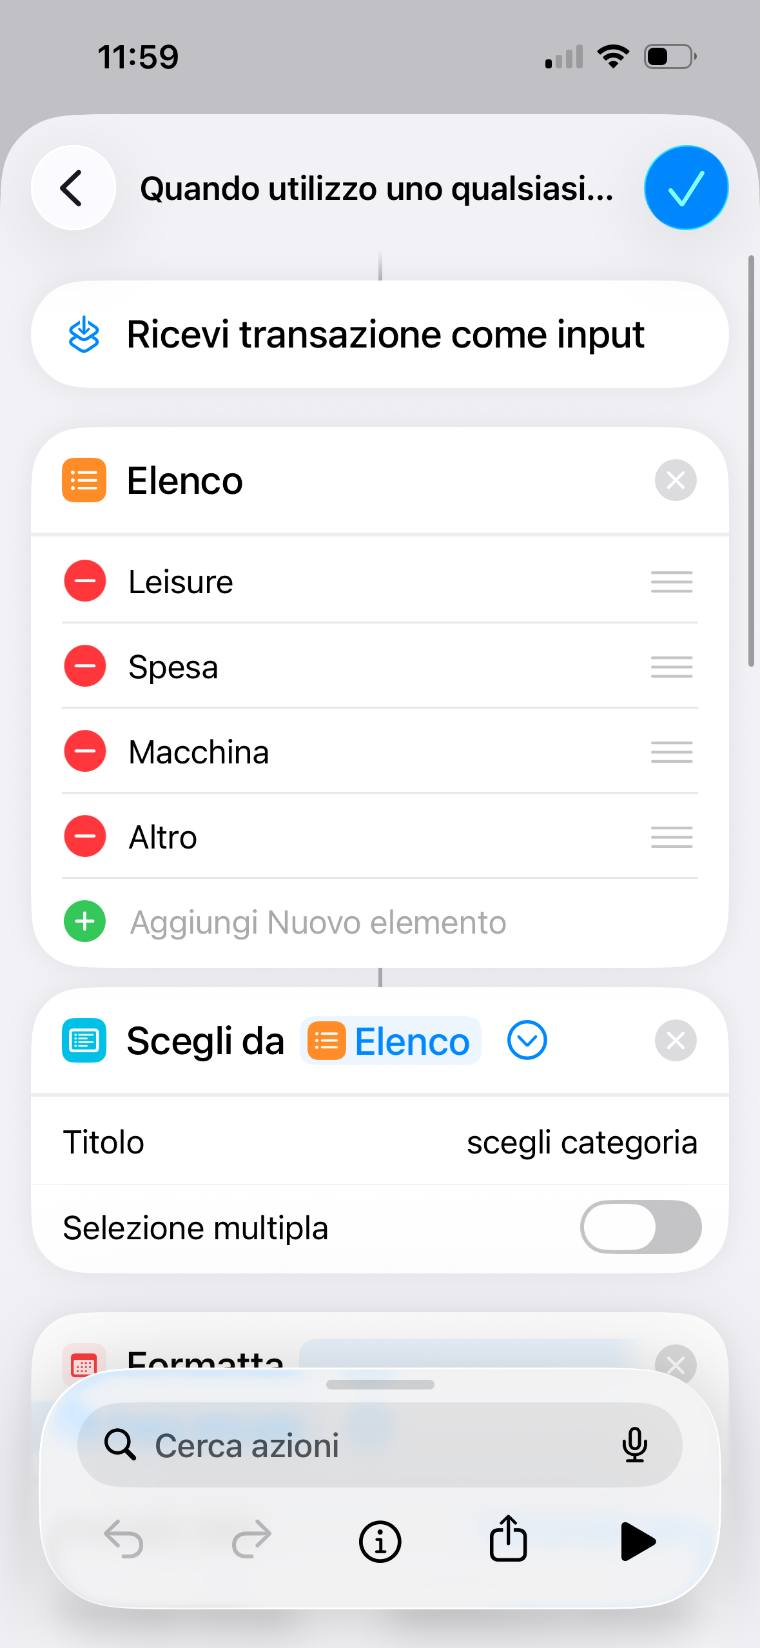
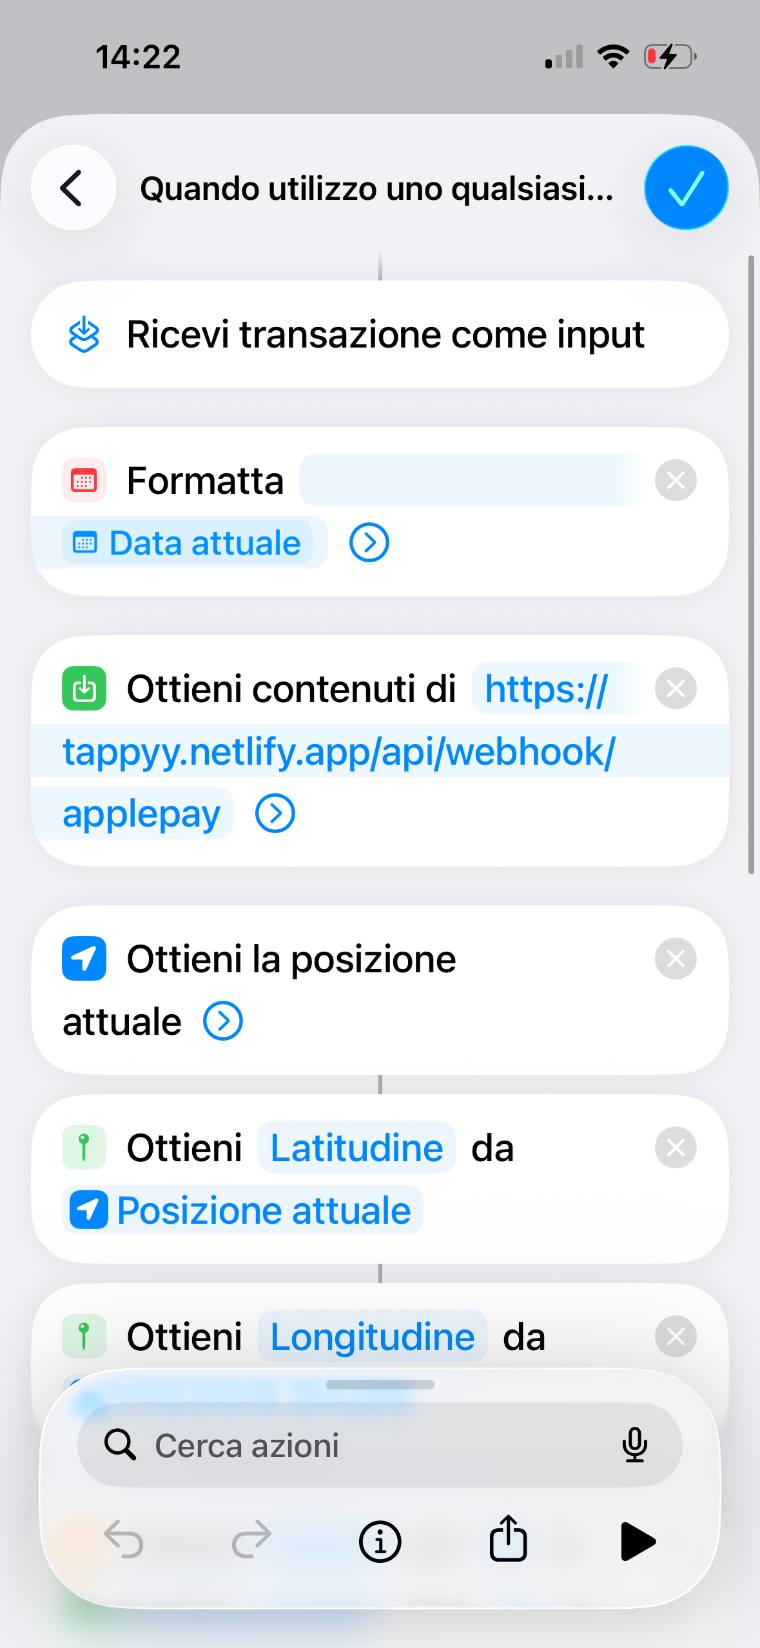
Guida: le immagini dell'automazione a tre chiamate
Rifatti innesco, posizione e categoria dagli scatti dell'automazione
com'è adesso, e aggiunto l'avviso sull'errore facile: la seconda e la
terza chiamata vanno all'indirizzo che finisce in /completa, non a quello
della prima.

3-invio.jpg mostra ancora lat e lon nel corpo della prima chiamata: la
didascalia lo dice, ma va risostituito (COORDINATION.md §12).

Claude-Session: https://claude.ai/code/session_01H3poq5UZy4bmtpKeGV99Xx

diff --git a/client/src/views/GuidaAutomazione.tsx b/client/src/views/GuidaAutomazione.tsx
@@ -144,7 +144,7 @@ export default function GuidaAutomazione({ onChiudi }: { onChiudi: () => void })
           numero={2}
           titolo="Crea l'automazione"
           immagine="./guida/1-innesco.jpg"
-          didascalia="L'innesco giusto, e sotto le due azioni della categoria"
+          didascalia="L'innesco giusto, e sotto la catena: prima l'invio, poi la posizione"
         >
           <ol className="list-decimal pl-4 flex flex-col gap-1.5">
             <li>
@@ -161,13 +161,17 @@ export default function GuidaAutomazione({ onChiudi }: { onChiudi: () => void })
             È l&apos;innesco giusto se la prima riga dice «Ricevi transazione come input»: vuol
             dire che importo ed esercente arriveranno da soli.
           </p>
+          <p>
+            L&apos;ordine che vedi nell&apos;immagine è tutto: <b>prima si manda la spesa</b>, poi
+            si aggiunge quello che si riesce a raccogliere. Ogni azione che può fermarsi sta dopo.
+          </p>
         </Passo>
 
         <Passo
           numero={3}
           titolo="Aggiungi l'invio a tappy"
           immagine="./guida/3-invio.jpg"
-          didascalia="L'azione dell'URL aperta con «Mostra altro»"
+          didascalia="L'azione aperta con «Mostra altro». Attenzione: nella foto ci sono anche lat e lon, che ora non vanno più qui"
         >
           <p>
             Aggiungi l&apos;azione <b>Ottieni contenuti dall&apos;URL</b>, poi tocca{" "}
@@ -212,7 +216,7 @@ export default function GuidaAutomazione({ onChiudi }: { onChiudi: () => void })
           numero={4}
           titolo="Poi la posizione"
           immagine="./guida/2-posizione.jpg"
-          didascalia="Precisione «Ottimale», poi latitudine e longitudine"
+          didascalia="Dopo la longitudine: l'id preso dalla risposta, e la seconda chiamata"
         >
           <p className="text-ink dark:text-ink-dark">
             Va <b>dopo</b> l&apos;invio, non prima. Se iOS nega la posizione — e a telefono
@@ -257,6 +261,11 @@ export default function GuidaAutomazione({ onChiudi }: { onChiudi: () => void })
           <p>
             Stesso metodo <code>POST</code>, stesse intestazioni, e tre campi nel corpo:
           </p>
+          <p className="text-ink dark:text-ink-dark">
+            L&apos;errore facile è lasciare l&apos;indirizzo della prima chiamata: questa e la
+            successiva finiscono in <code>/completa</code>. Con quello sbagliato ricevi{" "}
+            <code>400</code> e non arriva né posizione né categoria.
+          </p>
           <div className="rounded-2xl bg-surface dark:bg-surface-dark p-3 mt-1 overflow-x-auto">
             <table className="w-full text-left">
               <tbody>
@@ -272,7 +281,12 @@ export default function GuidaAutomazione({ onChiudi }: { onChiudi: () => void })
           </p>
         </Passo>
 
-        <Passo numero={5} titolo="La categoria, per ultima">
+        <Passo
+          numero={5}
+          titolo="La categoria, per ultima"
+          immagine="./guida/5-categoria.jpg"
+          didascalia="In coda a tutto: elenco, scelta, terza chiamata"
+        >
           <p className="text-ink dark:text-ink-dark">
             Chiedere la categoria è l&apos;unica azione che <b>aspetta una risposta</b>. A telefono
             bloccato l&apos;iPhone manda una notifica e mette l&apos;automazione in pausa: se non la
@@ -288,8 +302,8 @@ export default function GuidaAutomazione({ onChiudi }: { onChiudi: () => void })
               multipla spenta
             </li>
             <li>
-              un terzo <b>Ottieni contenuti dall&apos;URL</b>, di nuovo il secondo indirizzo, con
-              due soli campi
+              un terzo <b>Ottieni contenuti dall&apos;URL</b>, di nuovo il secondo indirizzo —
+              quello che finisce in <code>/completa</code> — con due soli campi
             </li>
           </ol>
           <div className="rounded-2xl bg-surface dark:bg-surface-dark p-3 mt-1 overflow-x-auto">

diff --git a/COORDINATION.md b/COORDINATION.md
@@ -480,24 +480,15 @@ gente:
 - **Il primo accesso costa 6 scritture** (utente, 4 categorie, carta), in
   sequenza. Va bene per un'iscrizione ogni tanto, non per un'ondata.
 
-## 12. Da fare quando l'automazione sarà definitiva
+## 12. Screenshot della guida — stato al 2026-09-03
 
-**Rifare gli screenshot della guida.** Quelli in `client/public/guida/` sono
-del 2026-09-03 e mostrano l'ordine **vecchio**: la posizione prima
-dell'invio, e `lat`/`lon` dentro il corpo della prima chiamata. Il testo
-della guida descrive già il nuovo ordine in due tempi, quindi finché non si
-rifanno le immagini contraddicono le istruzioni accanto a cui stanno.
+Rifatti con l'automazione a tre chiamate: `1-innesco.jpg` (la testa: input,
+invio, posizione), `2-posizione.jpg` (id dal dizionario e seconda chiamata),
+`5-categoria.jpg` (elenco, scelta, terza chiamata). `4-nota.jpg` resta valido
+perché mostra azioni che la guida dichiara facoltative.
 
-Da rifare, appena Riccardo è convinto dell'automazione e non la tocca più:
-
-- `2-posizione.jpg` — le azioni della posizione **dopo** la chiamata, con
-  «Ottieni valore dal dizionario» in mezzo
-- `3-invio.jpg` — il corpo JSON della prima chiamata **senza** `lat`/`lon`
-- una nuova immagine per la seconda chiamata (`.../applepay/posizione`, con
-  `id`/`lat`/`lon`)
-- `1-innesco.jpg` e `4-nota.jpg` restano validi
-
-Nelle immagini la `x-api-key` va mascherata: iOS ne mostra i primi caratteri
-e queste finiscono in un repo pubblico. Lo script che ridimensiona e maschera
-è ricostruibile in due minuti (Chromium via Playwright, canvas, larghezza 760,
-qualità 0.72, rettangolo bianco sopra la riga della chiave).
+**Resta da rifare `3-invio.jpg`**: mostra il corpo della prima chiamata con
+`lat` e `lon` dentro, che ora non ci vanno più. La didascalia lo avverte, ma
+è una toppa: va risostituito con uno scatto del corpo attuale (`amount`,
+`name`, `card`). Nel rifarlo, mascherare la `x-api-key` — iOS ne mostra i
+primi caratteri e queste immagini stanno in un repo pubblico.
